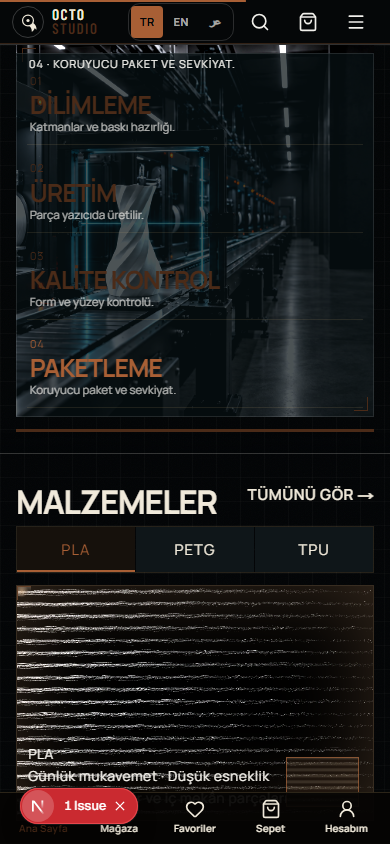
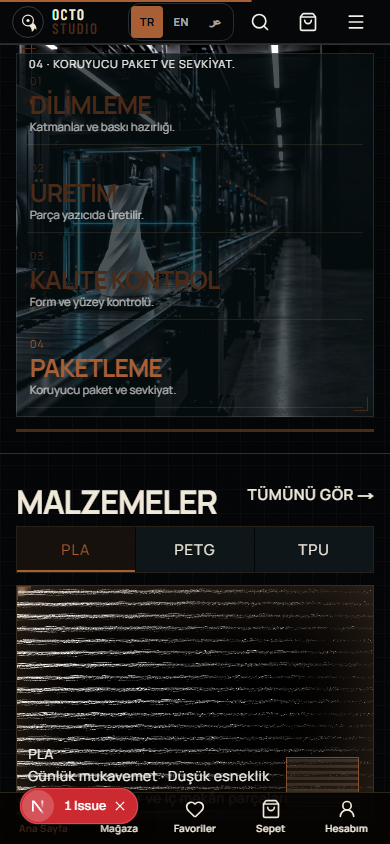
Wire the sand-to-abyss still between the television hero and the ocean sections.

diff --git a/e2e/octo-ocean-redesign.spec.ts b/e2e/octo-ocean-redesign.spec.ts
@@ -139,6 +139,86 @@ test.describe("OCTO ocean redesign", () => {
     }
   });
 
+  test("sand-to-abyss handoff uses the 2400×900 still without a seam or layout jump", async ({
+    page,
+  }) => {
+    const response = await page.request.get("/images/atmosphere/octo-sand-to-abyss-handoff.webp");
+    expect(response.status()).toBe(200);
+    expect(response.headers()["content-type"] ?? "").toMatch(/image\/webp/i);
+
+    for (const width of [390, 1440] as const) {
+      await page.setViewportSize({
+        width,
+        height: width === 390 ? 844 : 900,
+      });
+      await page.goto("/");
+      const handoff = page.locator("[data-sand-abyss-handoff]");
+      await expect(handoff).toHaveCount(1);
+      const image = handoff.locator("img.octo-sand-abyss-image");
+      await expect(image).toBeVisible();
+      await expect
+        .poll(async () => image.evaluate((node) => (node as HTMLImageElement).naturalWidth))
+        .toBe(2400);
+      const metrics = await page.evaluate(() => {
+        const hero = document.getElementById("ne-uretmek-istiyorsun");
+        const band = document.querySelector<HTMLElement>("[data-sand-abyss-handoff]");
+        const img = band?.querySelector<HTMLImageElement>("img.octo-sand-abyss-image");
+        const paths = document.getElementById("uc-uretim-yolu");
+        if (!hero || !band || !img || !paths) return null;
+        const heroBox = hero.getBoundingClientRect();
+        const bandBox = band.getBoundingClientRect();
+        const pathsBox = paths.getBoundingClientRect();
+        const style = getComputedStyle(img);
+        return {
+          naturalWidth: img.naturalWidth,
+          naturalHeight: img.naturalHeight,
+          objectFit: style.objectFit,
+          overlapHero: heroBox.bottom - bandBox.top,
+          overlapPaths: bandBox.bottom - pathsBox.top,
+          gapHero: bandBox.top - heroBox.bottom,
+          gapPaths: pathsBox.top - bandBox.bottom,
+        };
+      });
+      expect(metrics).toBeTruthy();
+      expect(metrics?.naturalWidth).toBe(2400);
+      expect(metrics?.naturalHeight).toBe(900);
+      expect(metrics?.objectFit).toBe("cover");
+      expect(metrics?.overlapHero ?? 0).toBeGreaterThan(8);
+      expect(metrics?.overlapPaths ?? 0).toBeGreaterThan(8);
+      expect(metrics?.gapHero ?? 1).toBeLessThanOrEqual(0);
+      expect(metrics?.gapPaths ?? 1).toBeLessThanOrEqual(0);
+
+      const startY = await page.evaluate(() => {
+        const hero = document.getElementById("ne-uretmek-istiyorsun");
+        return Math.max(0, (hero?.offsetHeight ?? 0) - window.innerHeight * 0.62);
+      });
+      await page.evaluate((y) => window.scrollTo(0, y), startY);
+      for (let step = 0; step < 10; step += 1) {
+        const seam = await page.evaluate(() => {
+          const hero = document.getElementById("ne-uretmek-istiyorsun");
+          const band = document.querySelector("[data-sand-abyss-handoff]");
+          const paths = document.getElementById("uc-uretim-yolu");
+          if (!hero || !band || !paths) return { gapHero: 99, gapPaths: 99 };
+          const heroBox = hero.getBoundingClientRect();
+          const bandBox = band.getBoundingClientRect();
+          const pathsBox = paths.getBoundingClientRect();
+          return {
+            gapHero: bandBox.top - heroBox.bottom,
+            gapPaths: pathsBox.top - bandBox.bottom,
+          };
+        });
+        expect(seam.gapHero).toBeLessThanOrEqual(1);
+        expect(seam.gapPaths).toBeLessThanOrEqual(1);
+        await page.evaluate(() => window.scrollBy(0, 70));
+      }
+      await page.evaluate((y) => window.scrollTo(0, y), startY);
+      await page.screenshot({
+        path: path.join(shots, width === 390 ? "sand-abyss-390.png" : "sand-abyss-1440.png"),
+        animations: "disabled",
+      });
+    }
+  });
+
   test("captures mobile and desktop proof frames", async ({ page }) => {
     test.setTimeout(120_000);
     await page.setViewportSize({ width: 390, height: 844 });
@@ -147,8 +227,9 @@ test.describe("OCTO ocean redesign", () => {
     await page.mouse.move(200, 520);
     await page.mouse.move(280, 540);
     await page.screenshot({ path: path.join(shots, "hero-sand-390.png") });
-    await page.locator("#uc-uretim-yolu").scrollIntoViewIfNeeded();
+    await page.locator("[data-sand-abyss-handoff]").scrollIntoViewIfNeeded();
     await page.screenshot({ path: path.join(shots, "depth-390.png") });
+    await page.locator("#uc-uretim-yolu").scrollIntoViewIfNeeded();
     await page.locator("#sana-gore-hazir-modeller").scrollIntoViewIfNeeded();
     await page.screenshot({ path: path.join(shots, "upload-390.png") });
     await page.locator("#kategoriler").scrollIntoViewIfNeeded();
@@ -179,8 +260,9 @@ test.describe("OCTO ocean redesign", () => {
     await page.mouse.move(720, 520);
     await page.mouse.move(860, 480);
     await page.screenshot({ path: path.join(shots, "hero-sand-1440.png") });
-    await page.locator("#uc-uretim-yolu").scrollIntoViewIfNeeded();
+    await page.locator("[data-sand-abyss-handoff]").scrollIntoViewIfNeeded();
     await page.screenshot({ path: path.join(shots, "depth-1440.png") });
+    await page.locator("#uc-uretim-yolu").scrollIntoViewIfNeeded();
     await page.locator("#kategoriler").scrollIntoViewIfNeeded();
     await page.screenshot({ path: path.join(shots, "cats-1440.png") });
     await page.locator("#mevcut-urunler").scrollIntoViewIfNeeded();

diff --git a/src/components/home-industrial/octo-sand-hero.css b/src/components/home-industrial/octo-sand-hero.css
@@ -193,7 +193,11 @@
   position: relative;
   z-index: 4;
   width: min(68rem, calc(100% - 2rem));
-  margin: 0 auto 1.5rem;
+  margin: 0 auto;
+}
+
+.octo-tv-below:not(:has(*)) {
+  display: none;
 }
 
 .octo-tv-scroll {
@@ -395,6 +399,10 @@
   .octo-tv-scroll {
     bottom: calc(4.6rem + env(safe-area-inset-bottom, 0px));
   }
+
+  .octo-sand-abyss {
+    margin-top: -22rem;
+  }
 }
 
 @media (max-width: 359.98px) {
@@ -412,5 +420,47 @@
   .octo-sand-canvas {
     animation: none;
     transition: none;
+  }
+}
+
+.octo-sand-abyss {
+  pointer-events: none;
+  position: relative;
+  z-index: 2;
+  margin-top: -11.5rem;
+  margin-bottom: -2.25rem;
+  background: linear-gradient(180deg, transparent 0 18%, #020507 46%);
+}
+
+.octo-sand-abyss-frame {
+  position: relative;
+  width: 100%;
+  aspect-ratio: 3 / 4;
+  overflow: hidden;
+  background: transparent;
+  -webkit-mask-image: linear-gradient(180deg, #000 0 70%, transparent 100%);
+  mask-image: linear-gradient(180deg, #000 0 70%, transparent 100%);
+}
+
+.octo-sand-abyss-image {
+  display: block;
+  width: 100%;
+  height: 100%;
+  object-fit: cover;
+  object-position: 50% 0%;
+}
+
+@media (min-width: 768px) {
+  .octo-sand-abyss {
+    margin-top: -8.75rem;
+    margin-bottom: -2.5rem;
+  }
+
+  .octo-sand-abyss-frame {
+    aspect-ratio: 8 / 3;
+  }
+
+  .octo-sand-abyss-image {
+    object-position: 50% 50%;
   }
 }

diff --git a/src/components/home-industrial/industrial-home.tsx b/src/components/home-industrial/industrial-home.tsx
@@ -4,6 +4,7 @@ import { FeaturedProduct } from "@/components/home-industrial/featured-product";
 import { FinalCta } from "@/components/home-industrial/final-cta";
 import { HomeCategories } from "@/components/home-industrial/home-categories";
 import { IdeaCommand } from "@/components/home-industrial/idea-command";
+import { SandAbyssHandoff } from "@/components/home-industrial/sand-abyss-handoff";
 import { IndustrialHeaderEffects } from "@/components/home-industrial/industrial-header";
 import { MaterialsStrip } from "@/components/home-industrial/materials-strip";
 import { MobileStickyCta } from "@/components/home-industrial/mobile-sticky-cta";
@@ -43,6 +44,7 @@ export function IndustrialHome({
       <OceanAtmosphere />
       <TechnicalGrid />
       <IdeaCommand />
+      <SandAbyssHandoff />
       <ProductionPaths />
       <HomeCategories products={products} />
       <AutoQuote />

diff --git a/src/components/home-industrial/sand-abyss-handoff.tsx b/src/components/home-industrial/sand-abyss-handoff.tsx
@@ -1,0 +1,20 @@
+import "./octo-sand-hero.css";
+
+const HANDOFF_SRC = "/images/atmosphere/octo-sand-to-abyss-handoff.webp";
+
+export function SandAbyssHandoff() {
+  return (
+    <div className="octo-sand-abyss" data-sand-abyss-handoff="" aria-hidden="true">
+      <div className="octo-sand-abyss-frame">
+        <img
+          className="octo-sand-abyss-image"
+          src={HANDOFF_SRC}
+          alt=""
+          width={2400}
+          height={900}
+          decoding="async"
+        />
+      </div>
+    </div>
+  );
+}

diff --git a/src/components/home-industrial/home-industrial.css b/src/components/home-industrial/home-industrial.css
@@ -3387,18 +3387,6 @@ html[data-home-industrial] footer {
   display: block;
 }
 
-.hi-hero::after {
-  content: "";
-  pointer-events: none;
-  position: absolute;
-  right: 0;
-  bottom: -1px;
-  left: 0;
-  z-index: 6;
-  height: min(18vh, 7rem);
-  background:
-    radial-gradient(120% 90% at 50% 0%, transparent 40%, rgb(2 5 7 / 0.35) 72%, #020507 100%);
-}
 
 @media (min-width: 768px) {
   .hi-cats-slide:not([data-active="true"]) {

diff --git a/docs/octo-studio-asset-plan.md b/docs/octo-studio-asset-plan.md
@@ -42,8 +42,8 @@ Live catalogue product photographs come from the published catalogue. Never AI-g
 10. Text must be absent
 11. No product reference
 12. Desktop: full width horizon. Mobile: crop to keep sand in the top 40% and abyss below
-13. Current fallback: CSS espresso→graphite→abyss gradient plus ink veil on `.hi-hero::after`
-14. Integration: not wired until the file exists
+13. Fallback removed. Live still: `public/images/atmosphere/octo-sand-to-abyss-handoff.webp`
+14. Integration: wired between `#ne-uretmek-istiyorsun` and `#uc-uretim-yolu`. Desktop uses the 8:3 master. Mobile is a CSS `object-fit: cover` 3:4 crop of the same file (sand held at `object-position: 50% 18%`). No second generated artwork; a 1200×1600 export would upscale the 900 px master.
 
 ### 2. Resin material specimen
 
@@ -140,7 +140,7 @@ Live catalogue product photographs come from the published catalogue. Never AI-g
 | Television shell + videos | Live |
 | Category artwork | Live |
 | Manufacturing stills | Live |
-| Sand-to-abyss handoff | Missing — CSS fallback |
+| Sand-to-abyss handoff | Live |
 | Resin specimen | Missing — PETG fallback |
 | Upload chamber | Missing — existing upload still |
 | Footer silhouette | CSS fallback |
@@ -169,4 +169,4 @@ Cep Albüm uses `product-hero.webp` as the category wordmark until a dedicated l
 
 ## Ask next (one asset)
 
-Highest remaining visual: **sand-to-abyss handoff still** (`octo-sand-to-abyss-handoff.webp`) as specified in item 1 above. CSS gradient is the current fallback.
+Highest remaining visual: **resin material specimen** (`material-resin.png`) as specified in item 2 above. PETG texture is the current fallback.
